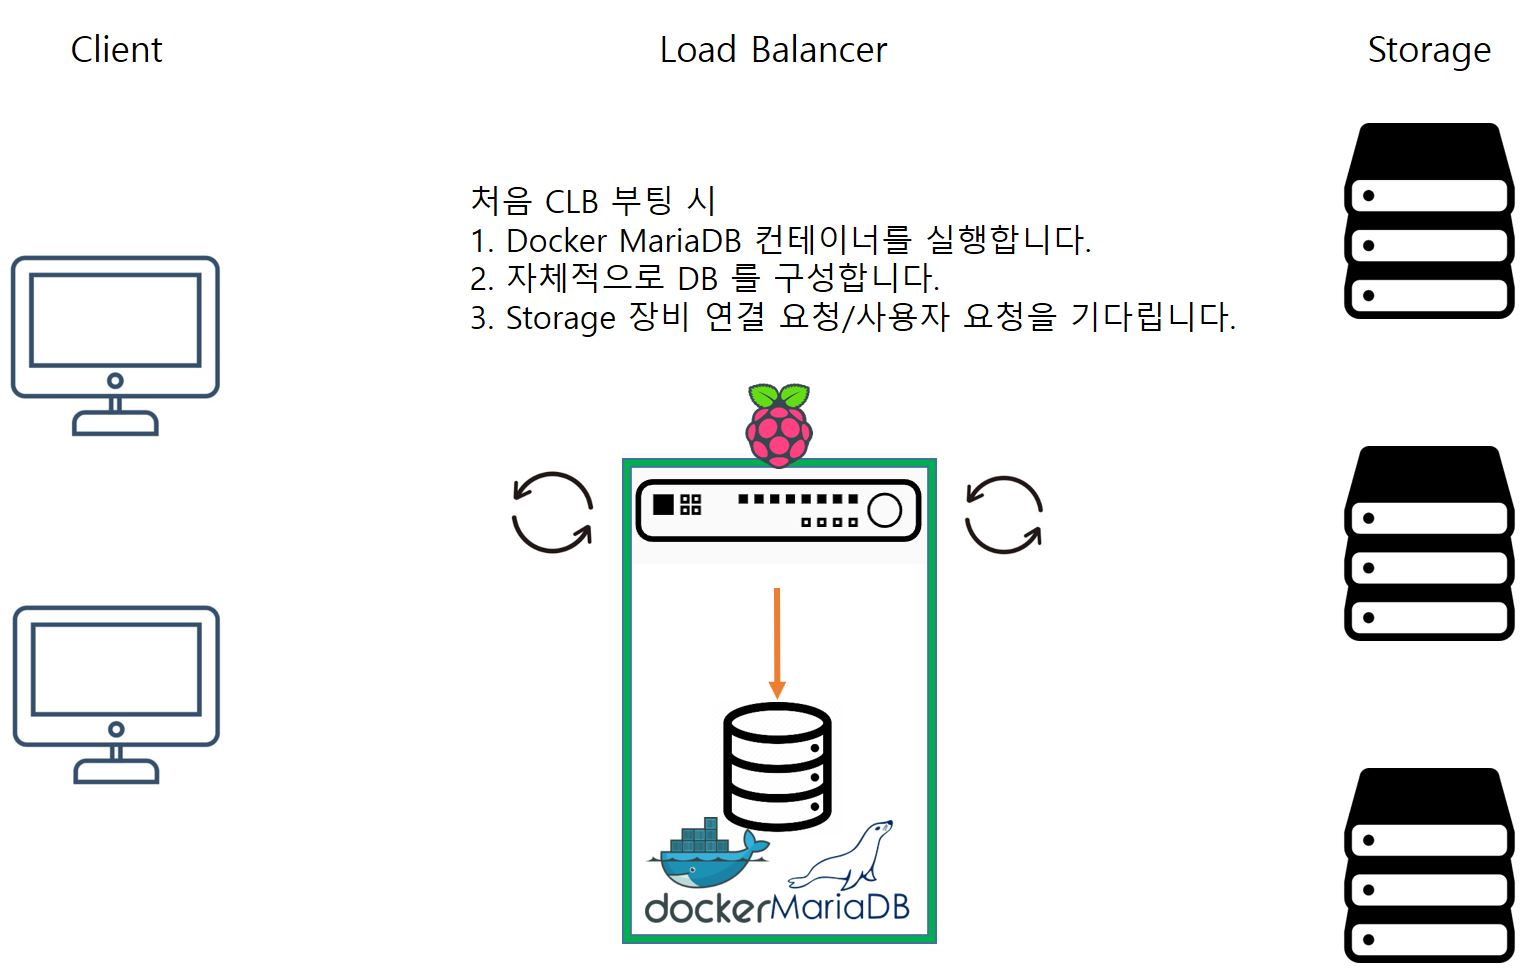
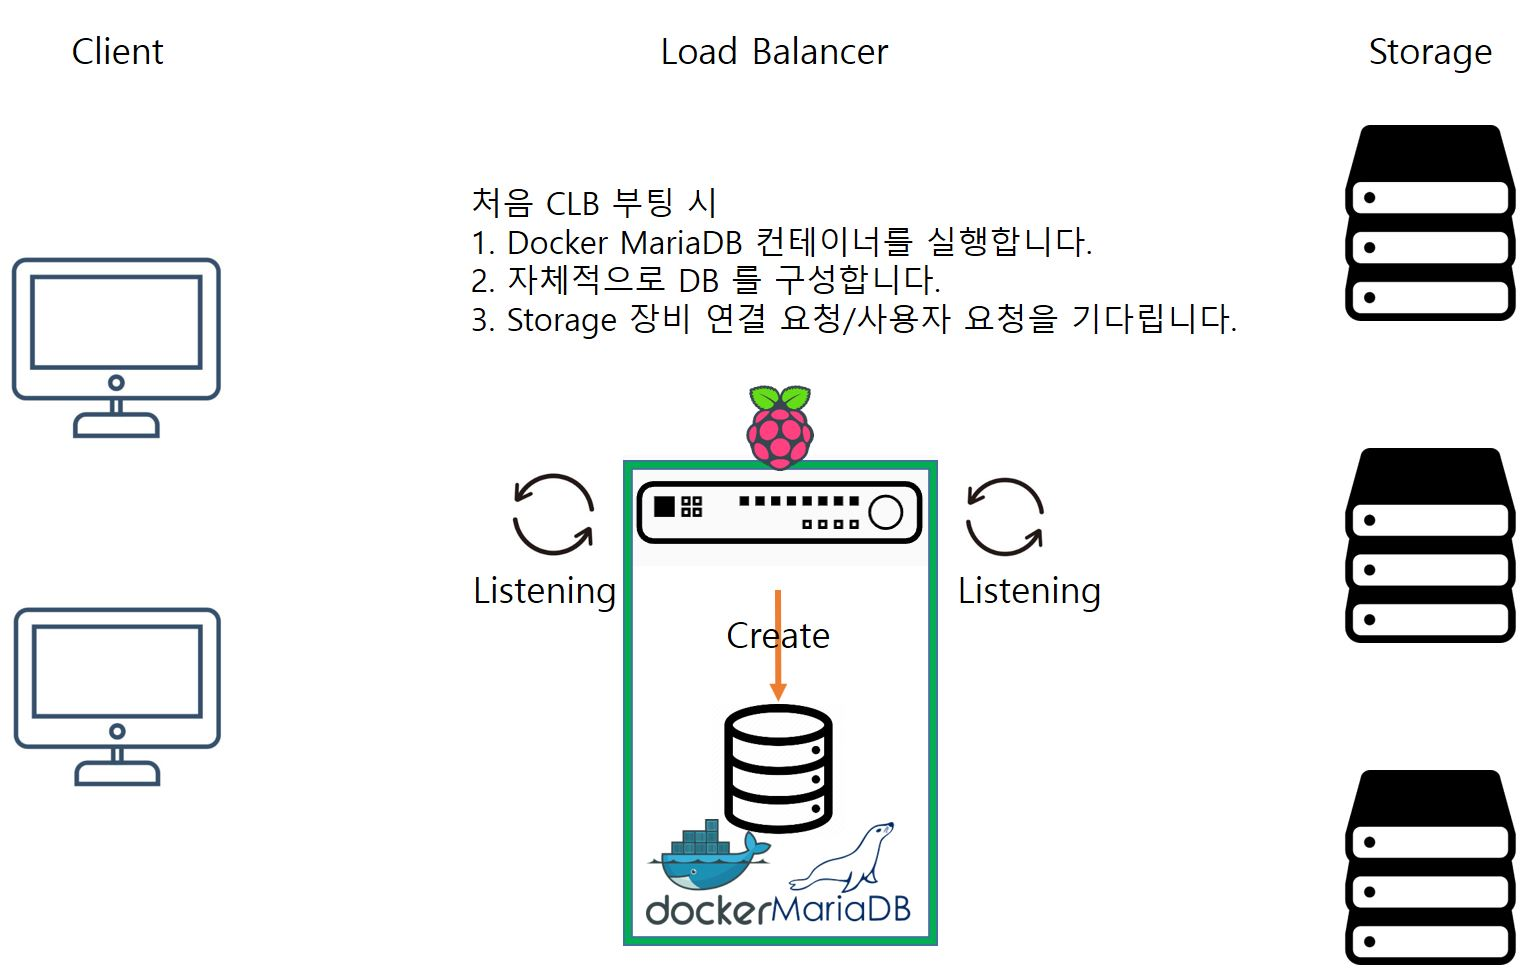
README.md

diff --git a/README.md b/README.md
@@ -6,7 +6,7 @@
 ----
 
 # 1. Project Overview
->Google Drive, DropBox, NAS 와 같이 사용자 계정에 따라 분리하여 원격지의 머신에 파일을 저장하고 파일의 종류(컨텐츠) 에 따라서 로드 발란싱하여 맞는 스토리지에 저장합니다.
+>__Google Drive, DropBox, NAS 와 같이 사용자 계정에 따라 분리하여 원격지의 머신에 파일을 저장하고 파일의 종류(컨텐츠) 에 따라서 로드 발란싱하여 맞는 스토리지에 저장합니다.__
 
 **1. 구현 서비스**
 - 로그인
@@ -26,12 +26,14 @@
 - RasBerry Pi
 
 **3. 서비스 구조** 
+>CLB 와 Storage는 같은 네트워크를 사용하고 Client는 외부의 네트워크에서 접속 한다고 가정합니다.
+
 ![Image](./_readmeImg/Service_structure.JPG)
 
 # 2. Project Diagram
 
 ## _2-1. Configure System Diagram_
->초기 시스템 구성/새로운 장비 설치시 대한 다이어그램입니다
+>__초기 시스템 구성/새로운 장비 설치시 대한 다이어그램입니다__
 
 **1. 초기 CLB 부팅**
 - 시스템을 구성하기위해 처음 CLB 부팅 시 동작입니다.
@@ -39,24 +41,24 @@
 
 **2. Storage 부팅(새로운 장비)**
 - 스토리지 장비로 사용될 장비가 부팅 시 동작입니다.
-- 
+![Image](./_readmeImg/storInfo.JPG)
 
 ---
 
 ## _2-2. Service Diagram_
->각 서비스 마다 동작 요청/응답 메세지와 동작 시퀀스에 대한 다이어그램입니다.
+>__ 서비스 마다 동작 요청/응답 메세지와 동작 시퀀스에 대한 다이어그램입니다.__
 
 **1. 로그인(Sign In)**
 - 이미 서비스에 가입된 사용자에 대한 로그인 동작입니다.
-- 
+![Image](./_readmeImg/login.JPG)
 
 **2. 계정 만들기(Sign Up)**
 - 서비스에 새로 가입하는 사용자에 대한 동작입니다.
-- 
+![Image](./_readmeImg/signup.JPG)
 
 **3. 파일 업로드(File Upload)**
 - 사용자가 스토리지로 파일 업로드 요청 시 동작입니다.
-- 
+![Image](./_readmeImg/uploadfile.JPG)
 
 **4. 파일 다운로드(File Download)**
 - 사용자가 스토리지로 부터 파일 다운로드 요청 시 동작입니다.
